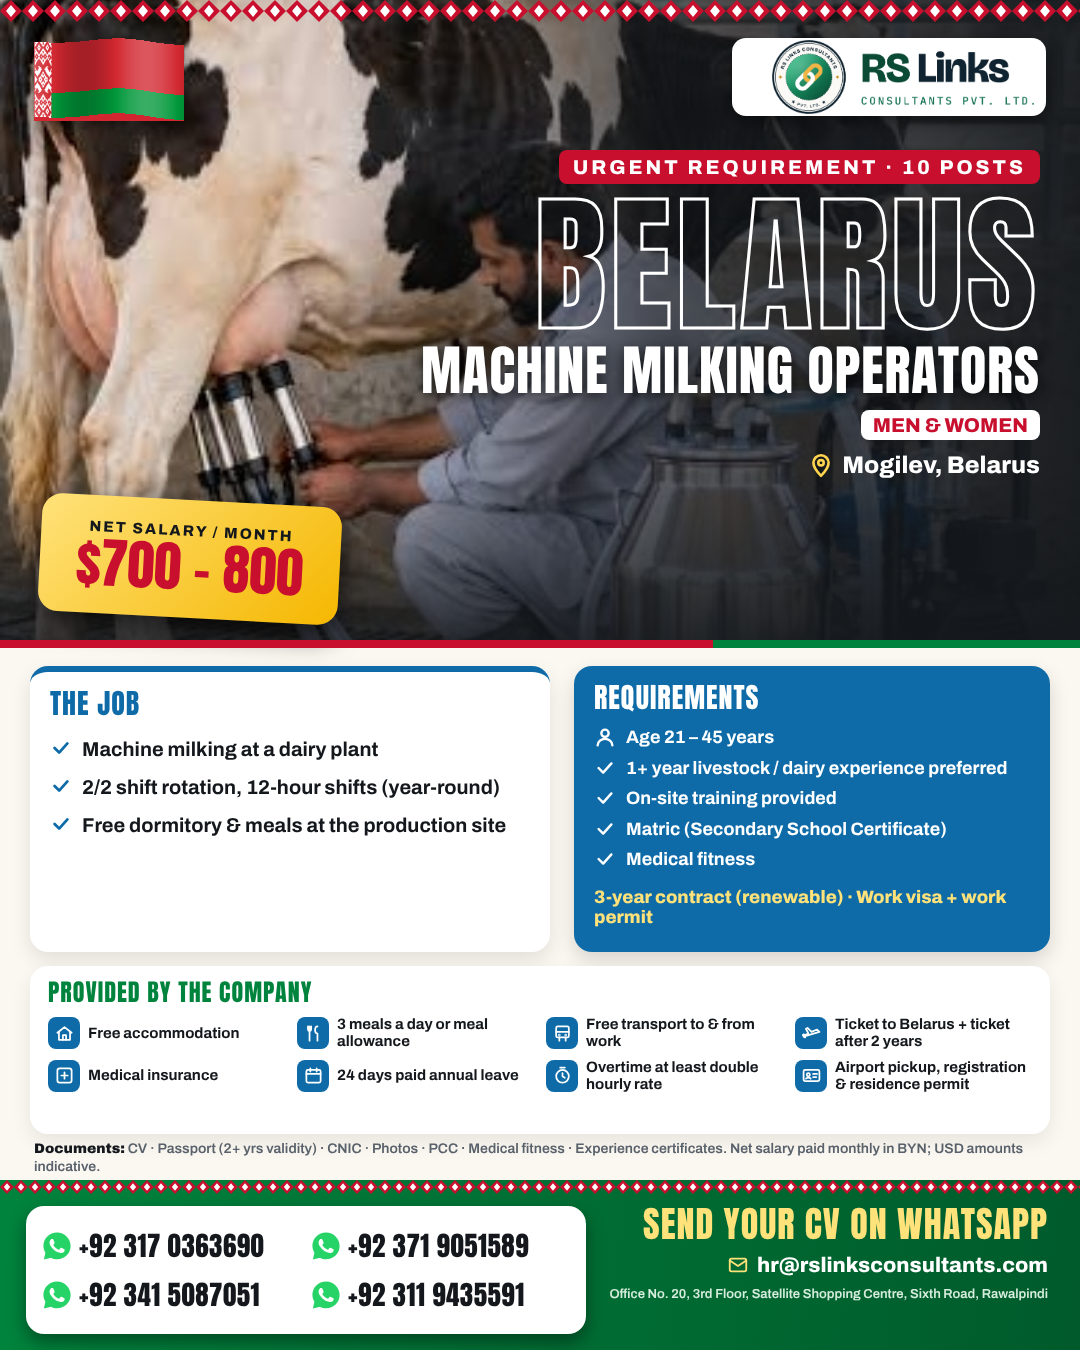
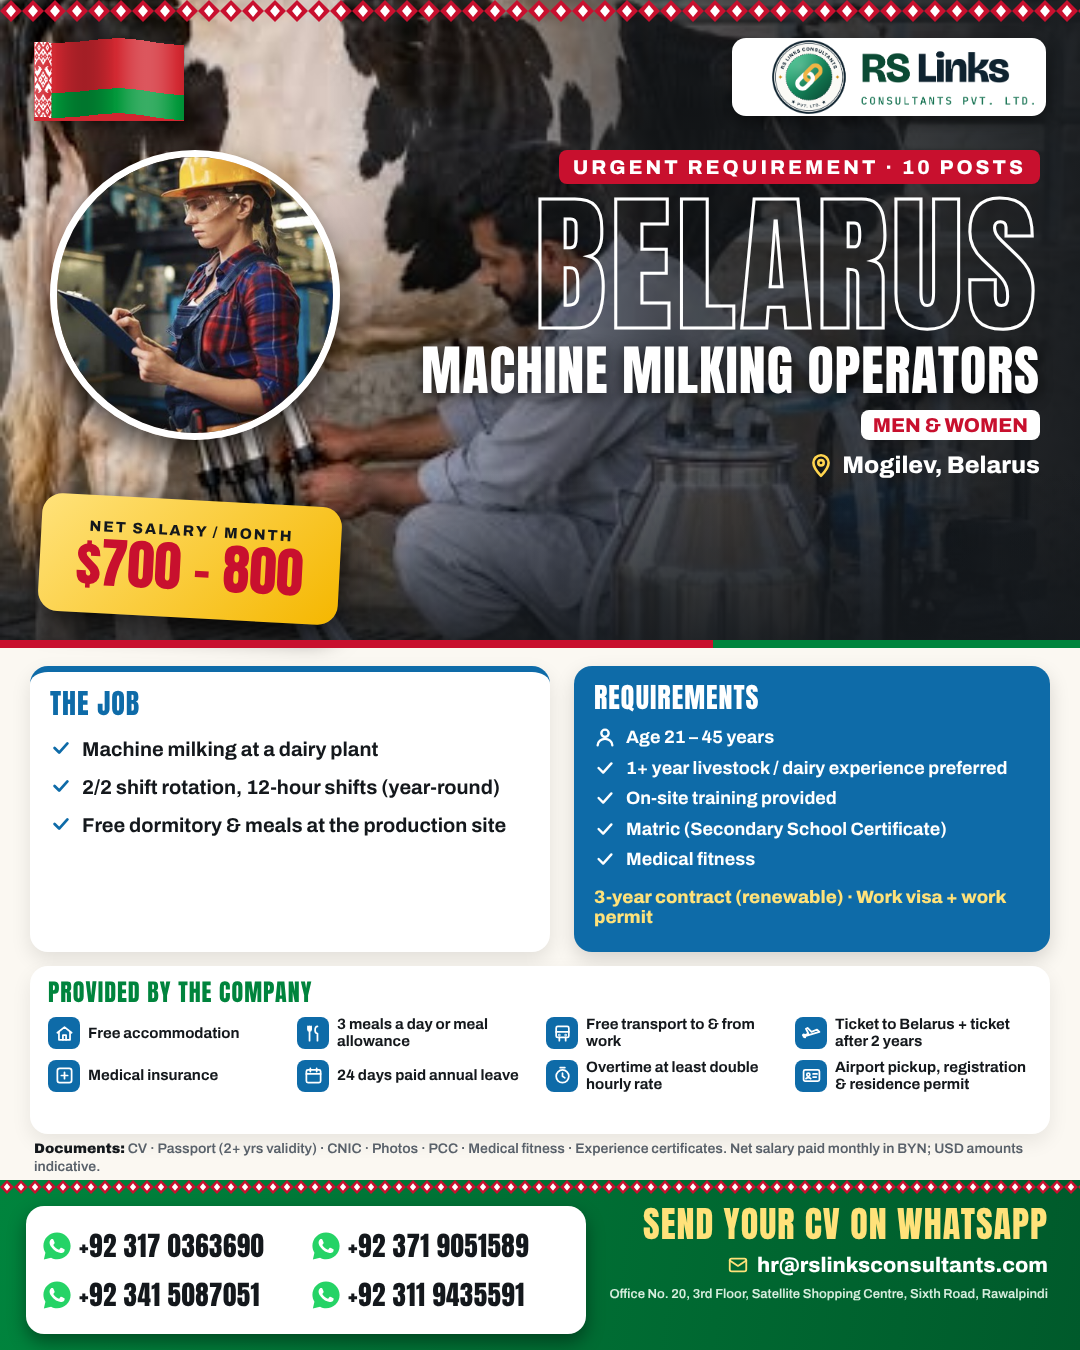
Belarus bakery & milking ads: add woman worker photo inset (men & women roles)
Claude-Session: https://claude.ai/code/session_01YJ5ofgU8QCiWTsYR9pvXG4

Changed region(s): [[0.0306, 0.0933, 0.3361, 0.3422]]

diff --git a/src/belarus_roles.py b/src/belarus_roles.py
@@ -19,7 +19,7 @@ BENEFITS = [("home", "Free accommodation"), ("food", "3 meals a day or meal allo
 DOCS = "CV · Passport (2+ yrs validity) · CNIC · Photos · PCC · Medical fitness · Experience certificates"
 
 ROLES = [
-    dict(slug="milking", pos="center 40%", flip=True, title="MACHINE MILKING OPERATORS", who="Men &amp; Women", posts=10, city="Mogilev", sal="700 – 800",
+    dict(slug="milking", pos="center 40%", flip=True, inset="by_woman_production", title="MACHINE MILKING OPERATORS", who="Men &amp; Women", posts=10, city="Mogilev", sal="700 – 800",
          accent="#0E6BA8", duties=["Machine milking at a dairy plant", "2/2 shift rotation, 12-hour shifts (year-round)",
                                      "Free dormitory &amp; meals at the production site"],
          reqs=["Age 21 – 45 years", "1+ year livestock / dairy experience preferred", "On-site training provided",
@@ -40,7 +40,7 @@ ROLES = [
          accent="#6A8E23", duties=["Harvesting crops (cabbage, potatoes)", "General farm work, crop handling, loading &amp; unloading",
                                      "5/2 or 6/1, 8–12 hours per day", "Free dormitory: 2 per room (separate rooms for couples)"],
          reqs=["Age 21 – 45 years", "1+ year farm work preferred", "Literate; good physical health"]),
-    dict(slug="bakery", title="BAKERY PRODUCTION WORKERS", who="Men &amp; Women", posts=30, city="Borisov, Minsk Region", sal="700 – 850",
+    dict(slug="bakery", inset="by_woman_production", title="BAKERY PRODUCTION WORKERS", who="Men &amp; Women", posts=30, city="Borisov, Minsk Region", sal="700 – 850",
          accent="#D9822B", duties=["General work in bakery production", "2/2 shift rotation, 12-hour shifts", "Free dormitory housing"],
          reqs=["Age 21 – 45 years", "No experience required", "Literate", "Medical fitness"]),
     dict(slug="cleaners", pos="center 6%", title="FACILITY CLEANERS", who="Women", posts=4, city="Borisov, Minsk Region", sal="600 – 750",
@@ -70,6 +70,8 @@ def build(r, i, uri):
     flip = r.get("flip", i % 2 == 1)          # alternate the photo / title side unless the photo needs one
     side, other = ("right", "left") if flip else ("left", "right")
     grad = f"linear-gradient({'270' if flip else '90'}deg,{INK}F2 0%,{INK}B0 38%,{INK}00 70%)"
+    inset = (f"<div class='abs' style='top:150px;{other}:50px;width:290px;height:290px;border-radius:50%;overflow:hidden;border:7px solid #fff;box-shadow:0 14px 30px #000a'>"
+             f"<img src='{(PHOTOS / (r['inset'] + '.jpg')).as_uri()}' style='width:100%;height:100%;object-fit:cover;object-position:center 20%'></div>") if r.get('inset') else ''
     who = (f"<span style='display:inline-block;background:#fff;color:{RED};font:800 20px Archivo;border-radius:8px;padding:4px 12px;margin-top:12px'>{r['who'].upper()}</span>"
            if r["who"] else "")
     duty_li = "".join(f"<div style='display:flex;gap:10px;align-items:flex-start;margin-top:13px'>{icon('check', 22, A, 3)}<span style='font:700 20px Archivo;color:{INK};line-height:1.25'>{d}</span></div>" for d in r["duties"])
@@ -91,6 +93,7 @@ def build(r, i, uri):
  <div style='font:400 {54 if len(r['title']) < 26 else 44}px Anton;color:#fff;line-height:1.02;letter-spacing:1px;margin-top:6px;text-shadow:0 4px 14px #000a'>{r['title']}</div>
  {who}
  <div style='display:flex;align-items:center;gap:8px;margin-top:12px;justify-content:{'flex-end' if flip else 'flex-start'}'>{icon('pin', 26, '#FFD54F', 2.4)}<span style='font:800 24px Archivo;color:#fff'>{r['city']}, Belarus</span></div></div>
+{inset}
 <div class='abs' style='top:500px;{other}:40px;min-width:300px;padding:0 22px;box-sizing:border-box;height:118px;border-radius:20px;background:linear-gradient(135deg,#FFE27A,#F5B700);box-shadow:0 12px 26px #000a;display:flex;flex-direction:column;align-items:center;justify-content:center;transform:rotate({'3' if flip else '-3'}deg)'>
  <div style='font:800 15px Archivo;color:{INK};letter-spacing:2px'>NET SALARY / MONTH</div>
  <div style='font:400 54px Anton;color:{RED};line-height:1.05'>${r['sal']}</div></div>
